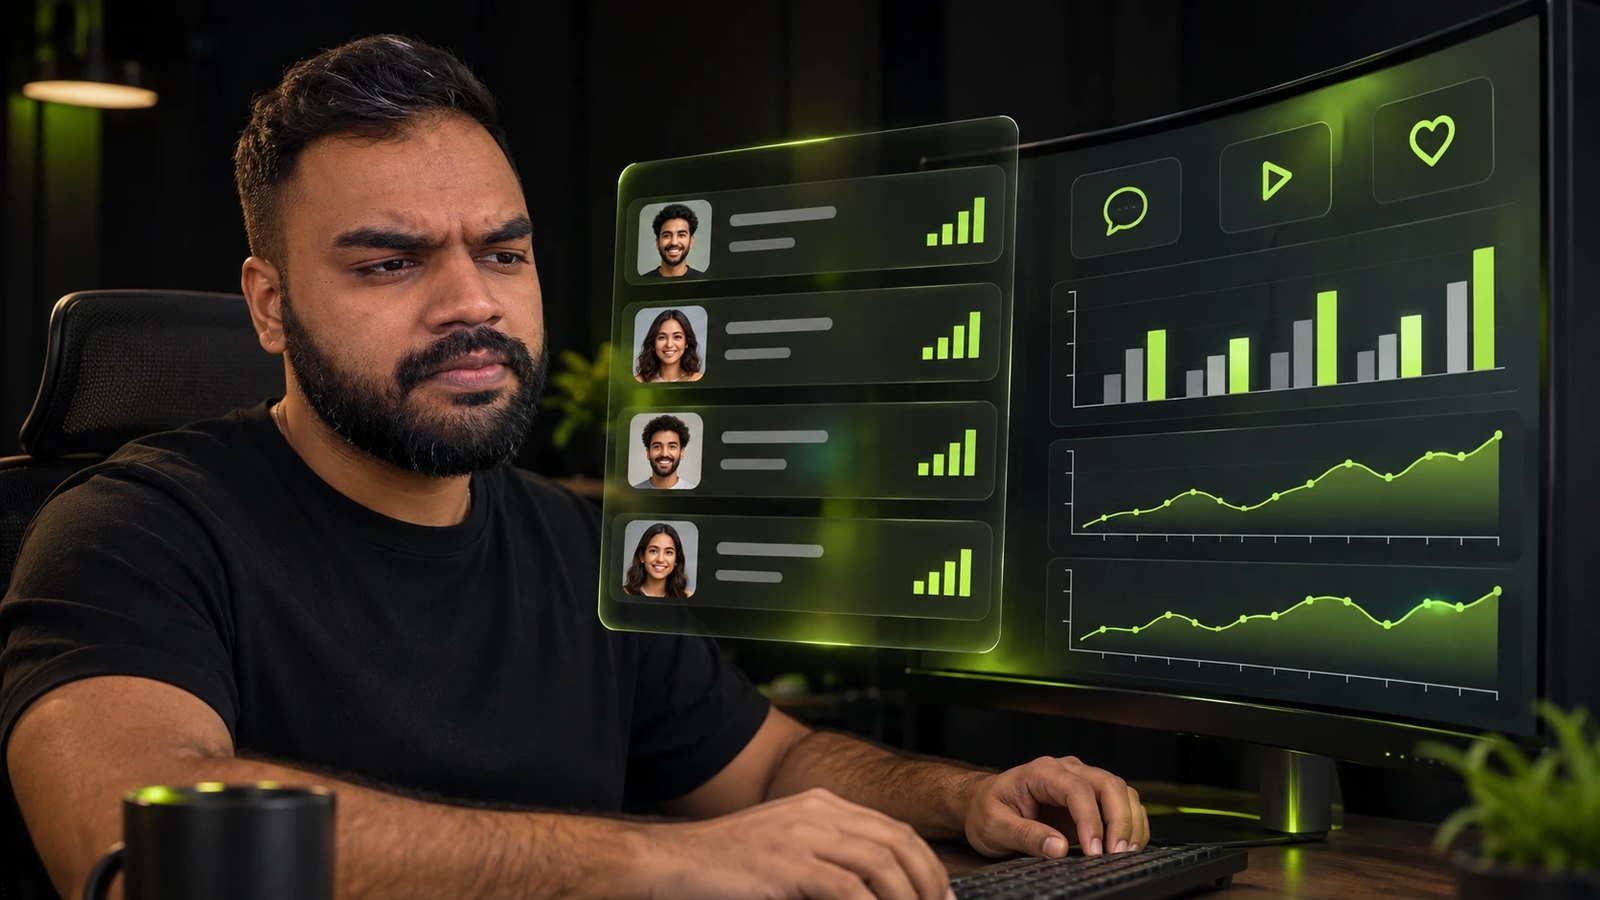
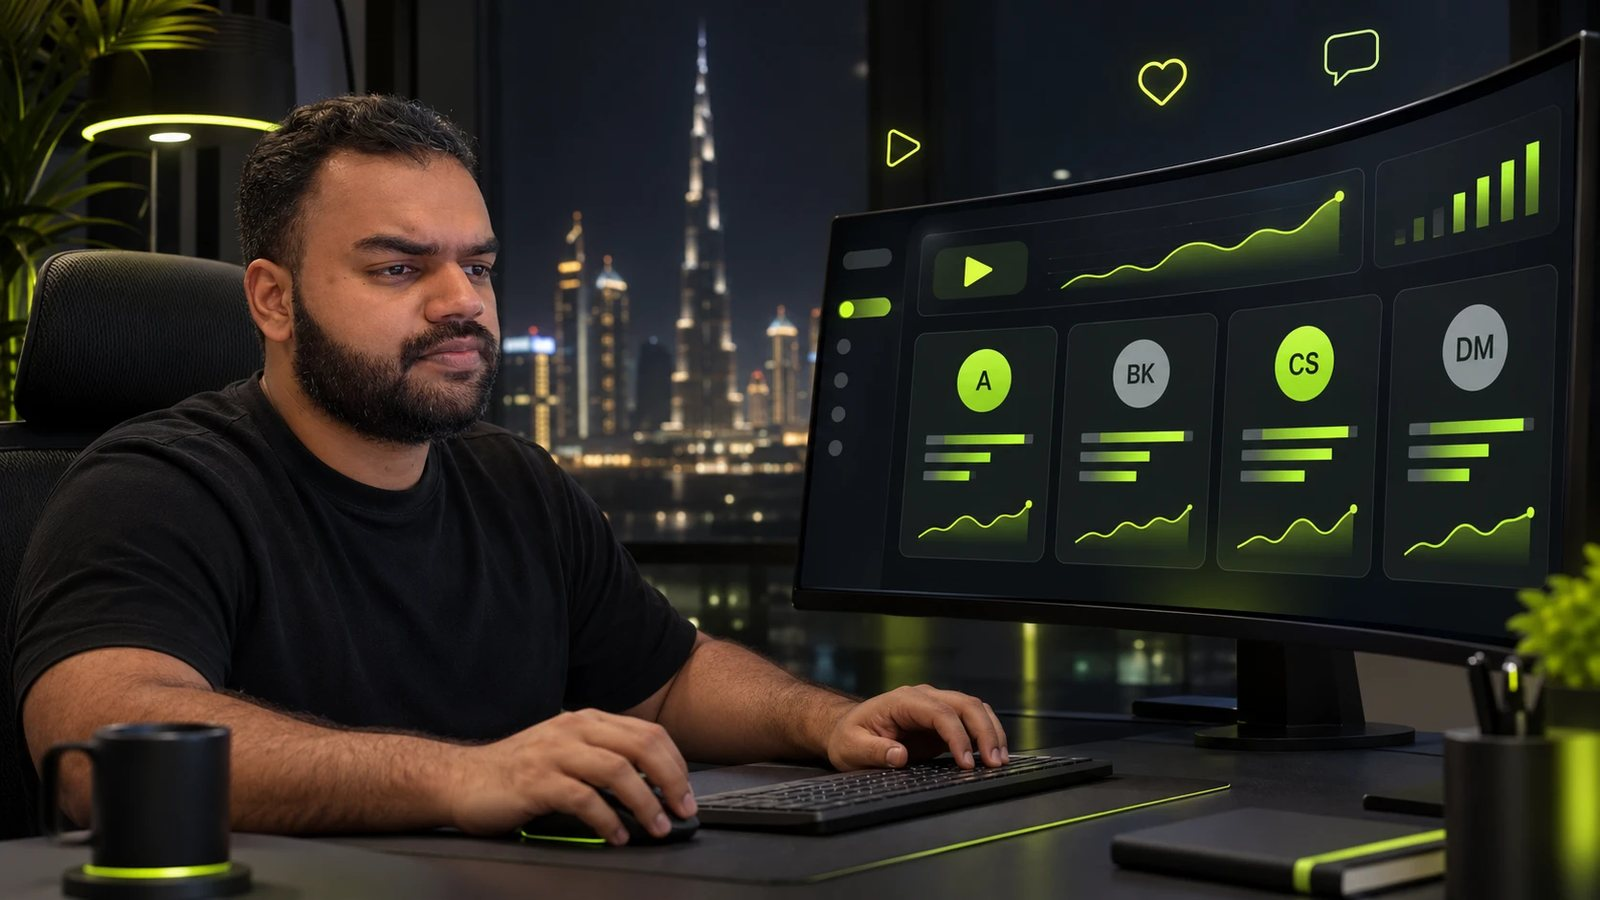
Add fictional sample outputs to the analytics case studies
New illustrative images replace the old ones (the old dashboard showed
AI-generated faces). Screenshots of the fictional sample reports are added
to both viewers; the interactive report files are not published because
they contain the internal dashboard's code. Thumbnail rows now scroll when
there are many slides.

Claude-Session: https://claude.ai/code/session_01WQuiZRJDaupRJaFWUSg2QS

diff --git a/static/css/style.css b/static/css/style.css
@@ -326,7 +326,7 @@ em { font-style: normal; color: var(--lime); }
 .inline-viewer__stage .circle:hover, .lightbox__stage .circle:hover { transform: translateY(-50%) scale(1.06); }
 [data-prev], #lbPrev { left: 14px; }
 [data-next], #lbNext { right: 14px; }
-.thumbs { display: grid; grid-template-columns: repeat(var(--n, 4), 1fr); gap: 10px; }
+.thumbs { display: grid; grid-template-columns: repeat(var(--n, 4), minmax(72px, 1fr)); gap: 10px; overflow-x: auto; scrollbar-width: thin; padding-bottom: 2px; }
 .thumb { border-radius: 10px; overflow: hidden; border: 2px solid transparent; opacity: 0.6; transition: all 0.3s var(--ease); aspect-ratio: 16 / 9; }
 .thumb img { width: 100%; height: 100%; object-fit: cover; }
 .thumb:hover { opacity: 1; }
